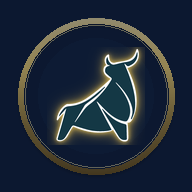
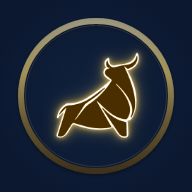
Brand assets: regenerate PNGs from SVG; og:image → og-image.png
WhatsApp/Twitter/Facebook OG previews don't render SVG images
reliably — they were falling back to default placeholders since
every og:image meta tag pointed at og-image.svg. Renders now match
the PWA + favicon + brand identity since they share a common source.

New scripts/svg-to-png.mjs uses Playwright's bundled Chromium to
rasterize the SVG sources at full filter/gradient fidelity. Produces:
- og-image.png      1200×630   social-share preview
- app-icon-192.png   192×192   PWA primary
- app-icon-512.png   512×512   PWA install splash

Re-run `node scripts/svg-to-png.mjs` whenever the source SVGs change.

og:image / twitter:image meta tags across all 7 public pages
(/, /about, /contact, /faq, /market, /performance, /signin) now
reference og-image.png. og-image.svg kept on the server for any
external consumer that prefers SVG (and the e2e brand-assets spec
covers both .png + .svg endpoints).

diff --git a/frontend/e2e/brand_assets.spec.js b/frontend/e2e/brand_assets.spec.js
@@ -8,7 +8,7 @@
  * variant (rgba(251,191,36,*)).
  *
  * The Svelte route `(public)/+page.svelte` is what renders at `/`,
- * and includes <meta property="og:image"> pointing at og-image.svg.
+ * and includes <meta property="og:image"> pointing at og-image.png.
  * After hydration, the (public) layout's nav bar mounts with the
  * bull.png. We assert against the post-hydration DOM.
  */
@@ -23,6 +23,7 @@ const TIMEOUT = 20_000;
 const STATIC_OK = [
   { path: '/favicon.ico',      mime: /image\/(x-icon|vnd\.microsoft\.icon)|^$/ },
   { path: '/favicon.png',      mime: /image\/png/ },
+  { path: '/og-image.png',     mime: /image\/png/ },
   { path: '/og-image.svg',     mime: /image\/svg\+xml/ },
   { path: '/app-icon-192.png', mime: /image\/png/ },
   { path: '/app-icon-512.png', mime: /image\/png/ },
@@ -56,8 +57,9 @@ test.describe('Brand assets', () => {
     expect(styleAttr).not.toContain('rgba(251,191,36');
 
     // og:image meta tag — the (public)/+page.svelte head block lands
-    // it pointing at og-image.svg.
+    // it pointing at og-image.png (raster — WhatsApp/Twitter previews
+    // don't render SVG OG images reliably).
     const og = await page.locator('meta[property="og:image"]').first().getAttribute('content');
-    expect(og || '', 'og:image meta missing').toMatch(/og-image\.svg$/);
+    expect(og || '', 'og:image meta missing').toMatch(/og-image\.png$/);
   });
 });

diff --git a/frontend/src/routes/(public)/+page.svelte b/frontend/src/routes/(public)/+page.svelte
@@ -18,14 +18,14 @@
   <meta property="og:description" content="RamboQuant builds systematic, transparent portfolios for partner-investors. Track real-time performance, market reports, and risk metrics." />
   <meta property="og:url" content="https://ramboq.com/" />
   <meta property="og:type" content="website" />
-  <meta property="og:image" content="https://ramboq.com/og-image.svg" />
+  <meta property="og:image" content="https://ramboq.com/og-image.png" />
   <meta property="og:site_name" content="RamboQuant Analytics" />
 
   <!-- Twitter -->
   <meta name="twitter:card" content="summary_large_image" />
   <meta name="twitter:title" content="RamboQuant Analytics — Quantitative Investment for Indian Markets" />
   <meta name="twitter:description" content="RamboQuant builds systematic, transparent portfolios for partner-investors. Track real-time performance, market reports, and risk metrics." />
-  <meta name="twitter:image" content="https://ramboq.com/og-image.svg" />
+  <meta name="twitter:image" content="https://ramboq.com/og-image.png" />
 </svelte:head>
 
 <!-- Minimal above-fold content for Googlebot. The client-side

diff --git a/frontend/src/routes/(public)/about/+page.svelte b/frontend/src/routes/(public)/about/+page.svelte
@@ -7,14 +7,14 @@
   <meta property="og:description" content="Learn about RamboQuant Analytics LLP — our investment philosophy, team, and partnership structure for accredited investors." />
   <meta property="og:url" content="https://ramboq.com/about" />
   <meta property="og:type" content="website" />
-  <meta property="og:image" content="https://ramboq.com/og-image.svg" />
+  <meta property="og:image" content="https://ramboq.com/og-image.png" />
   <meta property="og:site_name" content="RamboQuant Analytics" />
 
   <!-- Twitter -->
   <meta name="twitter:card" content="summary_large_image" />
   <meta name="twitter:title" content="About RamboQuant | RamboQuant Analytics" />
   <meta name="twitter:description" content="Learn about RamboQuant Analytics LLP — our investment philosophy, team, and partnership structure for accredited investors." />
-  <meta name="twitter:image" content="https://ramboq.com/og-image.svg" />
+  <meta name="twitter:image" content="https://ramboq.com/og-image.png" />
 </svelte:head>
 
 <div class="about-card">

diff --git a/frontend/src/routes/(public)/contact/+page.svelte b/frontend/src/routes/(public)/contact/+page.svelte
@@ -31,14 +31,14 @@
   <meta property="og:description" content="Get in touch with RamboQuant Analytics LLP — for partnership inquiries, support, or general questions." />
   <meta property="og:url" content="https://ramboq.com/contact" />
   <meta property="og:type" content="website" />
-  <meta property="og:image" content="https://ramboq.com/og-image.svg" />
+  <meta property="og:image" content="https://ramboq.com/og-image.png" />
   <meta property="og:site_name" content="RamboQuant Analytics" />
 
   <!-- Twitter -->
   <meta name="twitter:card" content="summary_large_image" />
   <meta name="twitter:title" content="Contact Us | RamboQuant Analytics" />
   <meta name="twitter:description" content="Get in touch with RamboQuant Analytics LLP — for partnership inquiries, support, or general questions." />
-  <meta name="twitter:image" content="https://ramboq.com/og-image.svg" />
+  <meta name="twitter:image" content="https://ramboq.com/og-image.png" />
 </svelte:head>
 
 <div class="max-w-sm mx-auto">

diff --git a/frontend/src/routes/(public)/faq/+page.svelte b/frontend/src/routes/(public)/faq/+page.svelte
@@ -134,14 +134,14 @@
   <meta property="og:description" content="Answers to common questions about RamboQuant's investment strategies, partnership terms, fees, and operations." />
   <meta property="og:url" content="https://ramboq.com/faq" />
   <meta property="og:type" content="website" />
-  <meta property="og:image" content="https://ramboq.com/og-image.svg" />
+  <meta property="og:image" content="https://ramboq.com/og-image.png" />
   <meta property="og:site_name" content="RamboQuant Analytics" />
 
   <!-- Twitter -->
   <meta name="twitter:card" content="summary_large_image" />
   <meta name="twitter:title" content="Frequently Asked Questions | RamboQuant Analytics" />
   <meta name="twitter:description" content="Answers to common questions about RamboQuant's investment strategies, partnership terms, fees, and operations." />
-  <meta name="twitter:image" content="https://ramboq.com/og-image.svg" />
+  <meta name="twitter:image" content="https://ramboq.com/og-image.png" />
 
   <!-- FAQPage structured data — generated from the faqs array above -->
   {@html `<script type="application/ld+json">${JSON.stringify({

diff --git a/frontend/src/routes/(public)/market/+page.svelte b/frontend/src/routes/(public)/market/+page.svelte
@@ -126,14 +126,14 @@
   <meta property="og:description" content="AI-generated daily reports on Indian equity markets, options activity, and macroeconomic events." />
   <meta property="og:url" content="https://ramboq.com/market" />
   <meta property="og:type" content="website" />
-  <meta property="og:image" content="https://ramboq.com/og-image.svg" />
+  <meta property="og:image" content="https://ramboq.com/og-image.png" />
   <meta property="og:site_name" content="RamboQuant Analytics" />
 
   <!-- Twitter -->
   <meta name="twitter:card" content="summary_large_image" />
   <meta name="twitter:title" content="Daily Market Report | RamboQuant Analytics" />
   <meta name="twitter:description" content="AI-generated daily reports on Indian equity markets, options activity, and macroeconomic events." />
-  <meta name="twitter:image" content="https://ramboq.com/og-image.svg" />
+  <meta name="twitter:image" content="https://ramboq.com/og-image.png" />
 </svelte:head>
 
 

diff --git a/frontend/src/routes/(public)/performance/+page.svelte b/frontend/src/routes/(public)/performance/+page.svelte
@@ -18,14 +18,14 @@
   <meta property="og:description" content="Real-time view of RamboQuant's holdings, positions, and portfolio P&L." />
   <meta property="og:url" content="https://ramboq.com/performance" />
   <meta property="og:type" content="website" />
-  <meta property="og:image" content="https://ramboq.com/og-image.svg" />
+  <meta property="og:image" content="https://ramboq.com/og-image.png" />
   <meta property="og:site_name" content="RamboQuant Analytics" />
 
   <!-- Twitter -->
   <meta name="twitter:card" content="summary_large_image" />
   <meta name="twitter:title" content="Live Portfolio Performance | RamboQuant Analytics" />
   <meta name="twitter:description" content="Real-time view of RamboQuant's holdings, positions, and portfolio P&L." />
-  <meta name="twitter:image" content="https://ramboq.com/og-image.svg" />
+  <meta name="twitter:image" content="https://ramboq.com/og-image.png" />
 </svelte:head>
 
 <PerformancePage />

diff --git a/frontend/src/routes/(public)/signin/+page.svelte b/frontend/src/routes/(public)/signin/+page.svelte
@@ -100,14 +100,14 @@
   <meta property="og:description" content="Sign in to your RamboQuant partner account." />
   <meta property="og:url" content="https://ramboq.com/signin" />
   <meta property="og:type" content="website" />
-  <meta property="og:image" content="https://ramboq.com/og-image.svg" />
+  <meta property="og:image" content="https://ramboq.com/og-image.png" />
   <meta property="og:site_name" content="RamboQuant Analytics" />
 
   <!-- Twitter -->
   <meta name="twitter:card" content="summary_large_image" />
   <meta name="twitter:title" content="Sign In | RamboQuant Analytics" />
   <meta name="twitter:description" content="Sign in to your RamboQuant partner account." />
-  <meta name="twitter:image" content="https://ramboq.com/og-image.svg" />
+  <meta name="twitter:image" content="https://ramboq.com/og-image.png" />
 </svelte:head>
 
 <div class="max-w-sm mx-auto mt-4">